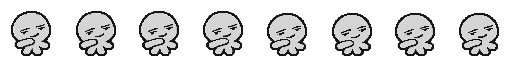
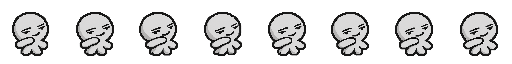
캐릭터: 승리 모션 몸통 사선 회전 보강

diff --git a/docs/검증/octopus-character-assets/README.md b/docs/검증/octopus-character-assets/README.md
@@ -22,7 +22,7 @@ Unity 가져오기 권장: Sprite (2D and UI), Multiple, Grid by Cell Size 64×6
 - [승리 춤 GIF](victory-preview.gif)
 - [대기](idle-preview.gif), [이동](walk-preview.gif), [멈춤](stop-preview.gif), [피격](hit-preview.gif)
 
-승리 모션은 사용자가 지정한 [최산 BAD 쇼츠](https://www.youtube.com/shorts/4K5AkSQpr2w)의 가슴 팝과 가슴 앞 손 동작을 문어 촉수로 각색했다. 몸통의 작은 팝과 같은 앞쪽 촉수의 밀기·당기기만 0.88초로 반복한다. 64×64 크기에 맞춰 가슴 움직임은 작게 표현하고, 두 안쪽 발은 고정했다. 이마 손짓·팔 펼침·다른 춤 구간은 제외했다. 원곡 음원이나 영상 프레임은 에셋에 포함하지 않았다.
+승리 모션은 사용자가 지정한 [최산 BAD 쇼츠](https://www.youtube.com/shorts/4K5AkSQpr2w)의 가슴 팝과 가슴 앞 손 동작을 문어 촉수로 각색했다. 몸통의 작은 팝과 같은 앞쪽 촉수의 밀기·당기기만 0.88초로 반복한다. 사용자 요청으로 몸통을 화면 오른쪽 사선으로 조금 더 틀었다. 얼굴은 관객 쪽으로 살짝 되돌리고, 반대편 촉수의 길이·겹침과 옆면 음영으로 깊이 방향의 회전을 표현했다. 64×64 크기에 맞춰 가슴 움직임은 작게 유지하고, 두 안쪽 발은 고정했다. 이마 손짓·팔 펼침·다른 춤 구간은 제외했다. 원곡 음원이나 영상 프레임은 에셋에 포함하지 않았다.
 
 승리 시트는 알파 128 초과 영역의 경계를 기준으로 셀을 분리하고, 전체 프레임 높이 중앙값이 44픽셀이 되는 공통 배율을 적용했다. 각 프레임의 아래쪽 8% 불투명 영역 중심을 발 앵커로 삼아 x=32, 하단 y=56에 정렬했다. GIF는 256×256 nearest-neighbor 확대, 배경 RGB(222,216,199), 무한 반복이다. 전체 미리보기는 새 승리 2회 분량인 1.76초이며 각 동작의 실제 프레임 전환 시점을 사용한다.
 

diff --git a/docs/구조/characters/NOTES.md b/docs/구조/characters/NOTES.md
@@ -4,4 +4,4 @@
 
 - 카메라 11, 캐릭터 화면 높이 4%. Shift+이동 방향 대시(22속도, 0.18초), 3초 순차 충전, 기본 1회/희귀 강화 2회. 서버 판정과 지형 충돌을 사용하며 다운·전투 종료 시 진행 중 대시를 취소한다.
 
-- 2026-10-16: 사용자 회색 문어 그림을 기준으로 대기/이동/멈춤/피격 각4프레임, 승리8프레임(총24) 투명 PNG 에셋 제작. 승리는 지정 BAD 쇼츠의 작은 가슴 팝과 가슴 앞 촉수의 밀기·당기기만 0.88초 반복으로 수정했고, 이마 손짓/팔 펼침은 제거했다. 다른 네 동작은 유지. 64×64 공통 셀과 발 피벗, 전체/동작별 GIF 및 알파 검증. docs/검증/octopus-character-assets에 원본·시트·프롬프트·미리보기 저장. 실제 플레이어 교체는 미적용.
+- 2026-10-16: 사용자 회색 문어 그림을 기준으로 대기/이동/멈춤/피격 각4프레임, 승리8프레임(총24) 투명 PNG 에셋 제작. 승리는 지정 BAD 쇼츠의 작은 가슴 팝과 가슴 앞 촉수의 밀기·당기기만 0.88초 반복으로 수정했고, 이마 손짓/팔 펼침은 제거했다. 후속 요청에 따라 몸통을 오른쪽 사선으로 더 틀고 반대편 촉수 겹침·옆면 음영으로 회전을 표현했다. 작은 팝·손 동작과 다른 네 동작은 유지. 64×64 공통 셀과 발 피벗, 전체/동작별 GIF 및 알파 검증. docs/검증/octopus-character-assets에 원본·시트·프롬프트·미리보기 저장. 실제 플레이어 교체는 미적용.
